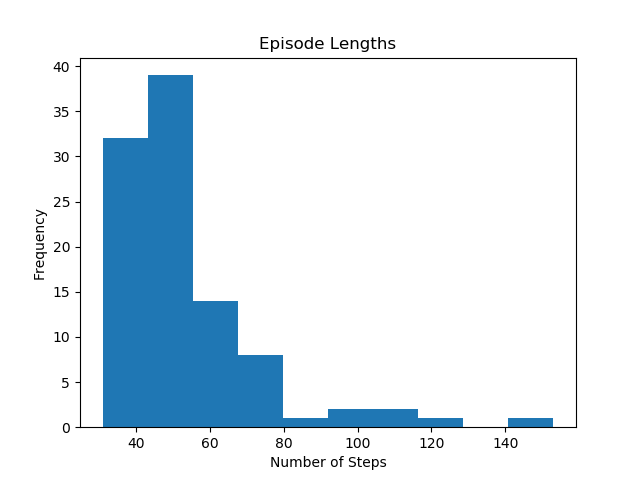
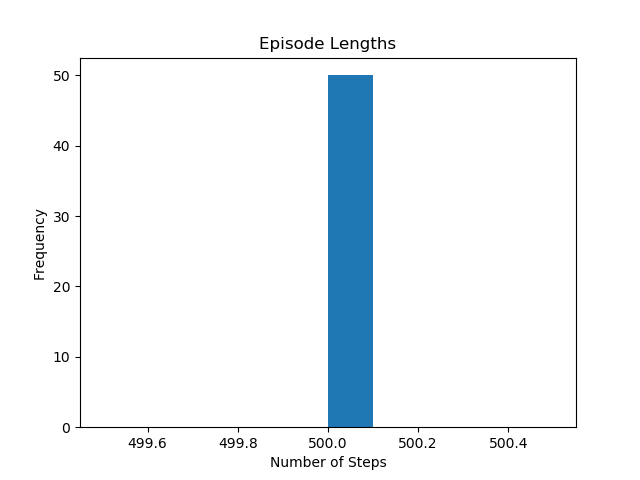
working cartpole hyperparameters, may be overkill iterations, fix readme

diff --git a/dqn/dqn.py b/dqn/dqn.py
@@ -24,29 +24,34 @@ num_iterations = 10000
 minibatch_size = 32
 num_steps_to_target_update = 10
 
-# we'll let the optimizer do the work of changing the stepsize/learning rate if necessary
-# right now it's just keras's default value for adam
-# TODO: sequence of stepsizes needed bc the model is being fit multiple times?
-stepsize = 0.001
-
 # we will anneal (reduce) the exploration probability from 1 to 0.1 (as in the paper)
 # our problem currently is not quite as complex, so we can't use the exact method in the paper
 # instead we'll just use a heuristic of decreasing it linearly over the first 75% of the learning phase
 start_exploration_prob = 1
 end_exploration_prob = 0.1
-annealment_portion = 0.75
-annealment_rate = ((start_exploration_prob-end_exploration_prob) / (num_iterations*annealment_portion))
+exploration_annealment_portion = 0.75
+exploration_annealment_rate = ((start_exploration_prob - end_exploration_prob) / (num_iterations * exploration_annealment_portion))
 exploration_prob = start_exploration_prob
+
+# we'll do the same thing with the stepsize, annealing it linearly from 0.001 to 0.0001 (just a guess)
+# this will occur over the last 80% of the iterations
+start_stepsize = 0.001
+end_stepsize = 0.0001
+stepsize_annealment_portion = 0.8
+stepsize_annealment_rate = ((start_stepsize - end_stepsize) / (num_iterations * stepsize_annealment_portion))
+stepsize = start_stepsize
+
 
 # Initialize the replay memory M to be empty
 replay_memory = []
+replay_memory_max_size = 1000
 
 # Initialize the Q-network with random weights θ
 q_net = Sequential([
     Dense(10, input_shape=(None, 4,)),
     Activation('relu'),
-    # Dense(10),
-    # Activation('relu'),
+    Dense(10),
+    Activation('relu'),
     Dense(2),
     Activation('linear')
 ])
@@ -59,8 +64,8 @@ q_net.compile(optimizer=adam(lr=stepsize), loss=mse, metrics=['accuracy'])
 target_net = Sequential([
     Dense(10, input_shape=(None, 4,)),
     Activation('relu'),
-    # Dense(10),
-    # Activation('relu'),
+    Dense(10),
+    Activation('relu'),
     Dense(2),
     Activation('linear')
 ])
@@ -86,6 +91,8 @@ for t in range(num_iterations):
     # Store transition (St, At, Rt, St+1) in M
     replay_memory.append((curr_state, action, reward, next_state, done))
 
+    # # only fit if past minibatch_size to avoid biased samples
+    # if len(replay_memory) > minibatch_size:
     # Experience replay: Sample random minibatch of transitions {(si, ai, ri, s′i)}i∈[n]from M
     transitions_minibatch_x = random.choices(replay_memory, k=minibatch_size)
     print(len(transitions_minibatch_x))
@@ -115,14 +122,22 @@ for t in range(num_iterations):
         target_net.set_weights(q_net.get_weights())
 
     # annealing the exploration rate from 1 to 0.1 over the first 75% of the steps
-    if t <= num_iterations * annealment_portion:
-        exploration_prob -= annealment_rate
+    if t <= num_iterations * exploration_annealment_portion:
+        exploration_prob -= exploration_annealment_rate
+
+    # annealing stepsize linearly from 0.001 to 0.0001 over last 80% of the steps
+    if t >= num_iterations * (1 - stepsize_annealment_portion):
+        stepsize -= stepsize_annealment_rate
+
+    # adjust replay memory size
+    if len(replay_memory) > replay_memory_max_size+10:
+        replay_memory = replay_memory[10:]
 
     # save our model every ~10% of training completion
     if t % (num_iterations//10) == 0 or t == num_iterations-1:
         print("iter", t)
-        q_net.save('models/' + model_name + '-qnet')
-        target_net.save('models/' + model_name + '-targetnet')
+        q_net.save('dqn/models/' + model_name + '-qnet')
+        target_net.save('dqn/models/' + model_name + '-targetnet')
 
     if not done:
         curr_state = next_state
@@ -138,6 +153,7 @@ for t in range(num_iterations):
 
 # evaluate model over 25000 steps or 100 episodes, whichever comes first
 # a successful model will result in an average of at least 195.0 steps per episode over 100 consecutive episodes
+# it looks like each episode will end after 500 steps max
 render = True
 num_eval_steps = 25000
 num_eval_episodes = 100
@@ -163,5 +179,5 @@ episode_length_histogram = plt.hist(episode_durations)
 plt.title("Episode Lengths")
 plt.xlabel("Number of Steps")
 plt.ylabel("Frequency")
-plt.savefig("episode_length_hist.png")
+plt.savefig("dqn/episode_length_hist.png")
 print("Mean episode length:", np.mean(episode_durations))

diff --git a/README.md b/README.md
@@ -16,7 +16,6 @@ A tentative list of algorithms to be implemented, linked to their respective pap
 
 - [Deep Q Network (DQN)](https://www.cs.toronto.edu/~vmnih/docs/dqn.pdf) ([and supplementary paper](https://arxiv.org/pdf/1901.00137.pdf))
 - [Proximal Policy Optimization (PPO)](https://arxiv.org/pdf/1707.06347.pdf)
-- [Deep Deterministic Policy Gradient (DDPG)]()
 - [Twin Delayed Deep Deterministic policy gradient (TD3)](https://arxiv.org/pdf/1802.09477.pdf)
 - [Actor Critic with Experience Replay (ACER)](https://arxiv.org/pdf/1611.01224.pdf)
 - [Advantage Actor Critic (A2C)](https://arxiv.org/pdf/1602.01783.pdf)
